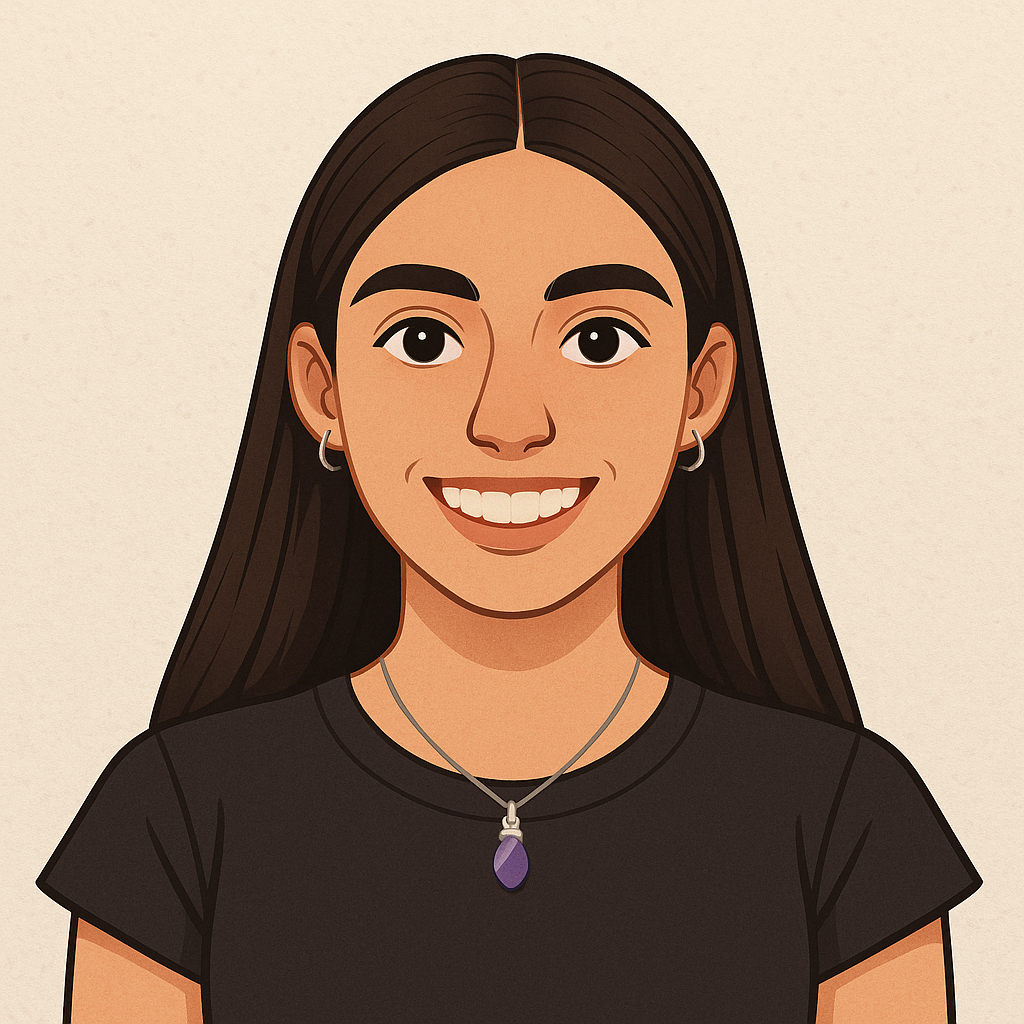
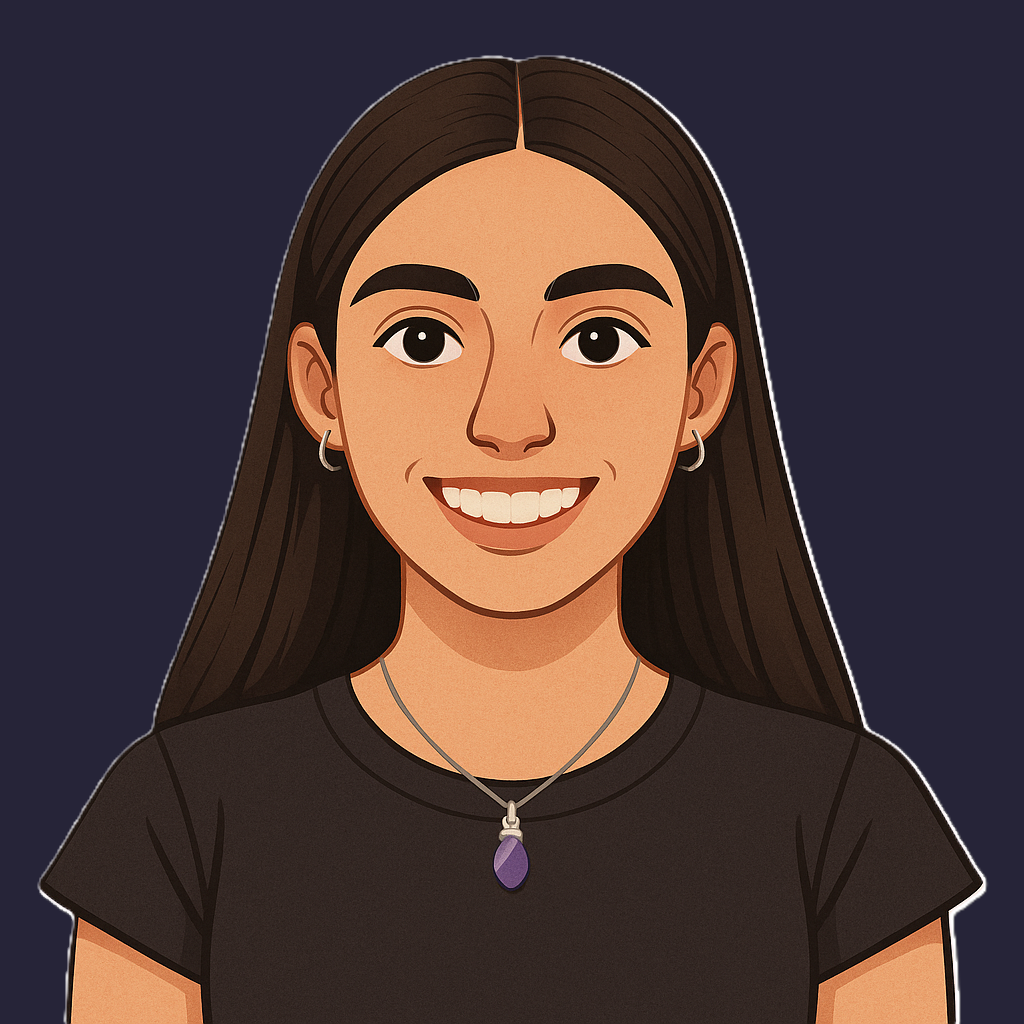
fondo

diff --git a/styles.css b/styles.css
@@ -14,12 +14,21 @@ body {
     margin: 0;
     padding: 1rem;
     display: flex;
-    background: linear-gradient(194deg,rgba(74, 10, 74, 1) 0%, rgba(17, 6, 43, 1) 25%, rgba(17, 6, 43, 1) 67%, rgba(29, 82, 128, 1) 100%);
-    background-position: center;
-    background-repeat: no-repeat;
-    background-size: cover;
-    background-attachment: fixed;
+    
 }
+
+#background_0 {
+    position: fixed;
+    top: 0;
+    left: 0;
+    width: 100%;
+    height: 100%;
+    z-index: -1;
+    background-color: #1d1e33;
+    background-image: url('TU_IMAGEN_URL'); /* Si deseas agregar una imagen de fondo */
+    background-size: cover;
+}
+
 
 .sidebar {
     width: 20rem;
@@ -28,13 +37,17 @@ body {
     flex-direction: column;
     justify-content: space-between;
     align-items: center;
-    border: var(--principal-color) solid 1px;
     border-radius: 1rem;
     min-height: calc(100vh - 2rem);
     position: fixed;
     top: 1rem;
     left: 1rem;
-    background-color: #11111170;
+    background: linear-gradient(135deg, rgba(255, 255, 255, 0.1), rgba(255, 255, 255, 0));
+    -webkit-backdrop-filter: blur(20px);
+    backdrop-filter: blur(10px);
+    box-shadow: 5px 5px 12px #00000045;
+    border-top: 1px solid rgba(255, 255, 255, 0.18);
+    border-left: 1px solid rgba(255, 255, 255, 0.18);
 }
 
 .sidebar img {
@@ -90,9 +103,13 @@ header {
     padding: 0.5rem 1rem 0.6rem 1rem;
     display: flex;
     justify-content: space-between;
-    border: var(--principal-color) solid 1px;
     border-radius: 9999px;
-    background-color: #11111170;
+    background: linear-gradient(135deg, rgba(255, 255, 255, 0.1), rgba(255, 255, 255, 0));
+    -webkit-backdrop-filter: blur(20px);
+    backdrop-filter: blur(10px);
+    box-shadow: 5px 5px 12px #00000045;
+    border-top: 1px solid rgba(255, 255, 255, 0.18);
+    border-left: 1px solid rgba(255, 255, 255, 0.18);
     gap: 2rem;
     width: 60%;
 }
@@ -159,12 +176,17 @@ p {
 }
 
 h1 {
-    font-size: 4rem;
+    font-size: 3rem;
     font-weight: 900;
     margin: 0;
     font-family: "Courier New";
     margin-bottom: 1rem;
     color: var(--principal-color);
+    text-shadow: 5px 5px 5px rgba(0, 0, 0, 0.7);
+}
+
+#valentina {
+    font-size: 4.5rem;
 }
 
 h2 {
@@ -218,7 +240,13 @@ h2 {
 #divAboutMe p {
     width: 90vw;
     max-width: 30rem;
-    border: var(--principal-color) solid 1px;
+    border: none;
+    background: linear-gradient(135deg, rgba(255, 255, 255, 0.1), rgba(255, 255, 255, 0));
+    -webkit-backdrop-filter: blur(20px);
+    backdrop-filter: blur(10px);
+    box-shadow: 5px 5px 12px #00000045;
+    border-top: 1px solid rgba(255, 255, 255, 0.18);
+    border-left: 1px solid rgba(255, 255, 255, 0.18);
     border-radius: 20px;
     padding: 1rem;
     box-sizing: border-box;
@@ -369,14 +397,20 @@ h3 {
     padding: 1.7rem;
     box-sizing: border-box;
     box-shadow: 0px 0px 40px #fff2;
+    background-color: #00000010;
 }
 
 #divContact form button {
     margin: 0.5rem 0;
     padding: 0.5rem;
     border-radius: 10px;
-    border: var(--principal-color) solid 1px;
-    background-color: #3a3a3a;
+    border: none;
+    background: linear-gradient(135deg, rgba(255, 255, 255, 0.1), rgba(255, 255, 255, 0));
+    -webkit-backdrop-filter: blur(20px);
+    backdrop-filter: blur(10px);
+    box-shadow: 5px 5px 12px #00000045;
+    border-top: 1px solid rgba(255, 255, 255, 0.18);
+    border-left: 1px solid rgba(255, 255, 255, 0.18);
     color: var(--principal-color);
     transition: 0.3s;
     width: 100%;
@@ -394,7 +428,12 @@ h3 {
     padding: 0.5rem;
     border-radius: 8px;
     border: none;
-    background-color: #3a3a3a;
+    background: linear-gradient(135deg, rgba(255, 255, 255, 0.1), rgba(255, 255, 255, 0));
+    -webkit-backdrop-filter: blur(20px);
+    backdrop-filter: blur(10px);
+    box-shadow: 5px 5px 12px #00000045;
+    border-top: 1px solid rgba(255, 255, 255, 0.18);
+    border-left: 1px solid rgba(255, 255, 255, 0.18);
     color: white;
     transition: 0.3s;
     resize: vertical;
@@ -419,7 +458,7 @@ h3 {
         min-height: calc(100vh - 6rem);
     }
 
-    .sidebar p, a {
+    .sidebar p {
         font-size: 1.5rem;
     }
 

diff --git a/index.html b/index.html
@@ -11,6 +11,8 @@
 </head>
 <body>
 
+    <div id="background_0"></div>
+
     <aside class="sidebar">
         <div>
             <h4>Valentina Mazzulla</h4>
@@ -43,7 +45,7 @@
         </header>
 
         <div class="seccion" id="divHome">
-            <h1>Hi! I'm Valentina<br>An IT Analyst and software developer</h1>
+            <h1><span id="valentina">Hi! I'm Valentina</span><br>An IT Analyst and Software Developer</h1>
         </div>
 
         <div class="seccion" id="divAboutMe">
@@ -180,8 +182,34 @@
                 });
             });
         });
-
-
     </script>
+    <script src="https://cdn.jsdelivr.net/particles.js/2.0.0/particles.min.js"></script>
+<script>
+    particlesJS("background_0", {
+    "particles": {
+        "number": { "value": 100, "density": { "enable": true, "value_area": 800 } },
+        "color": { "value": "#ffffff" },
+        "shape": { "type": "circle" },
+        "opacity": { "value": 0.5 },
+        "size": { "value": 3 },
+        "line_linked": { "enable": true, "distance": 150, "color": "#ffffff" },
+        "move": { "enable": true, "speed": 2 }
+    },
+    "interactivity": {
+        "detect_on": "window",
+        "events": {
+            "onhover": { "enable": true, "mode": "grab" },
+            "onclick": { "enable": true, "mode": "push" }
+        },
+        "modes": {
+            "grab": { "distance": 140, "line_linked": { "opacity": 1 } },
+            "bubble": { "distance": 400, "size": 40, "duration": 2, "opacity": 8, "speed": 3 },
+            "repulse": { "distance": 200, "duration": 0.4 },
+            "push": { "particles_nb": 4 }
+        }
+    }
+});
+
+</script>
 </body>
 </html>
